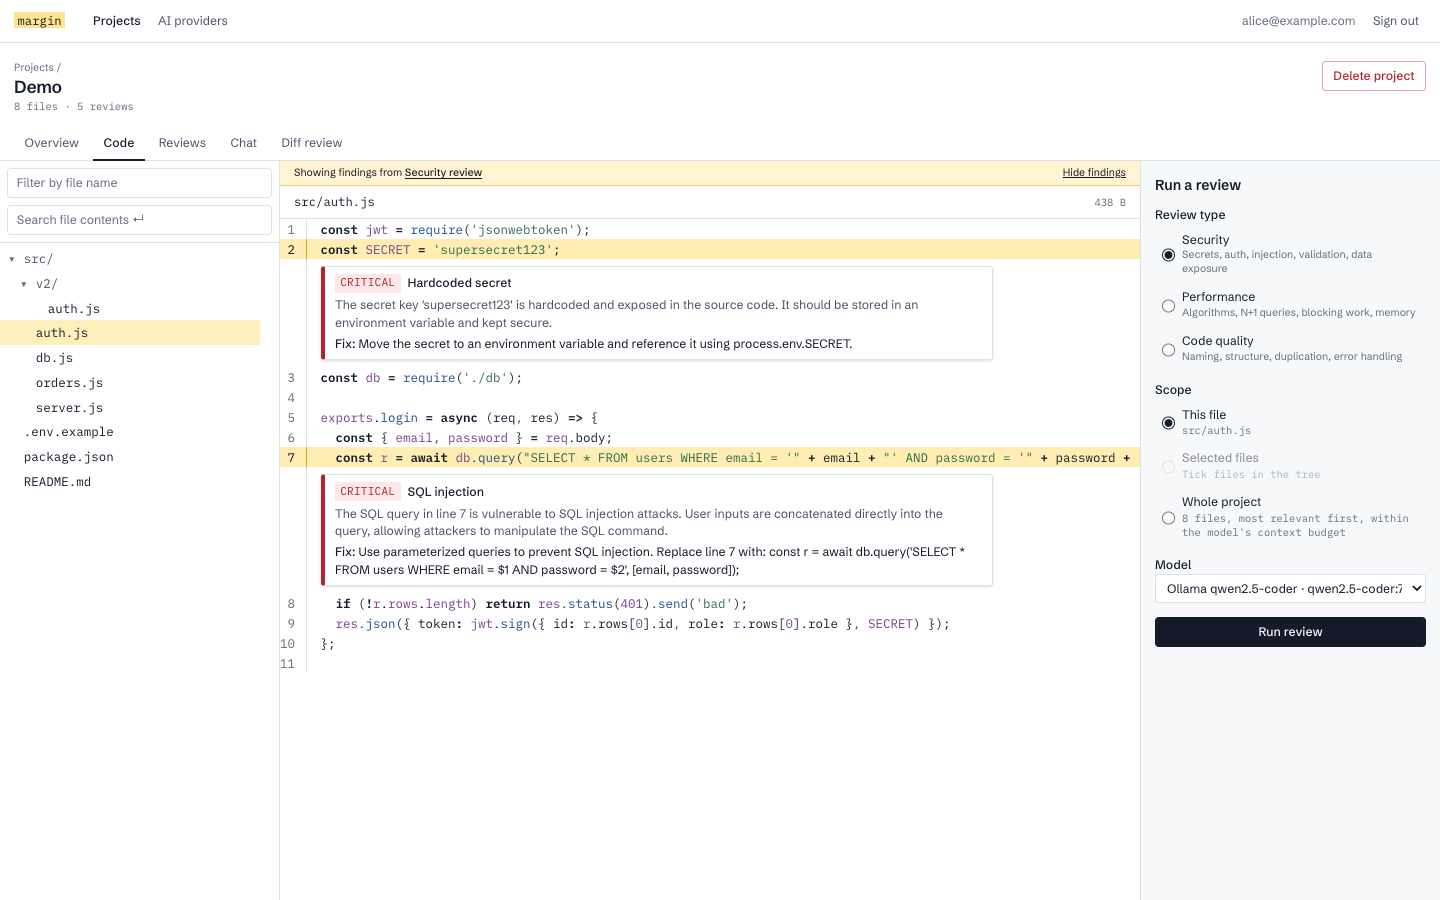
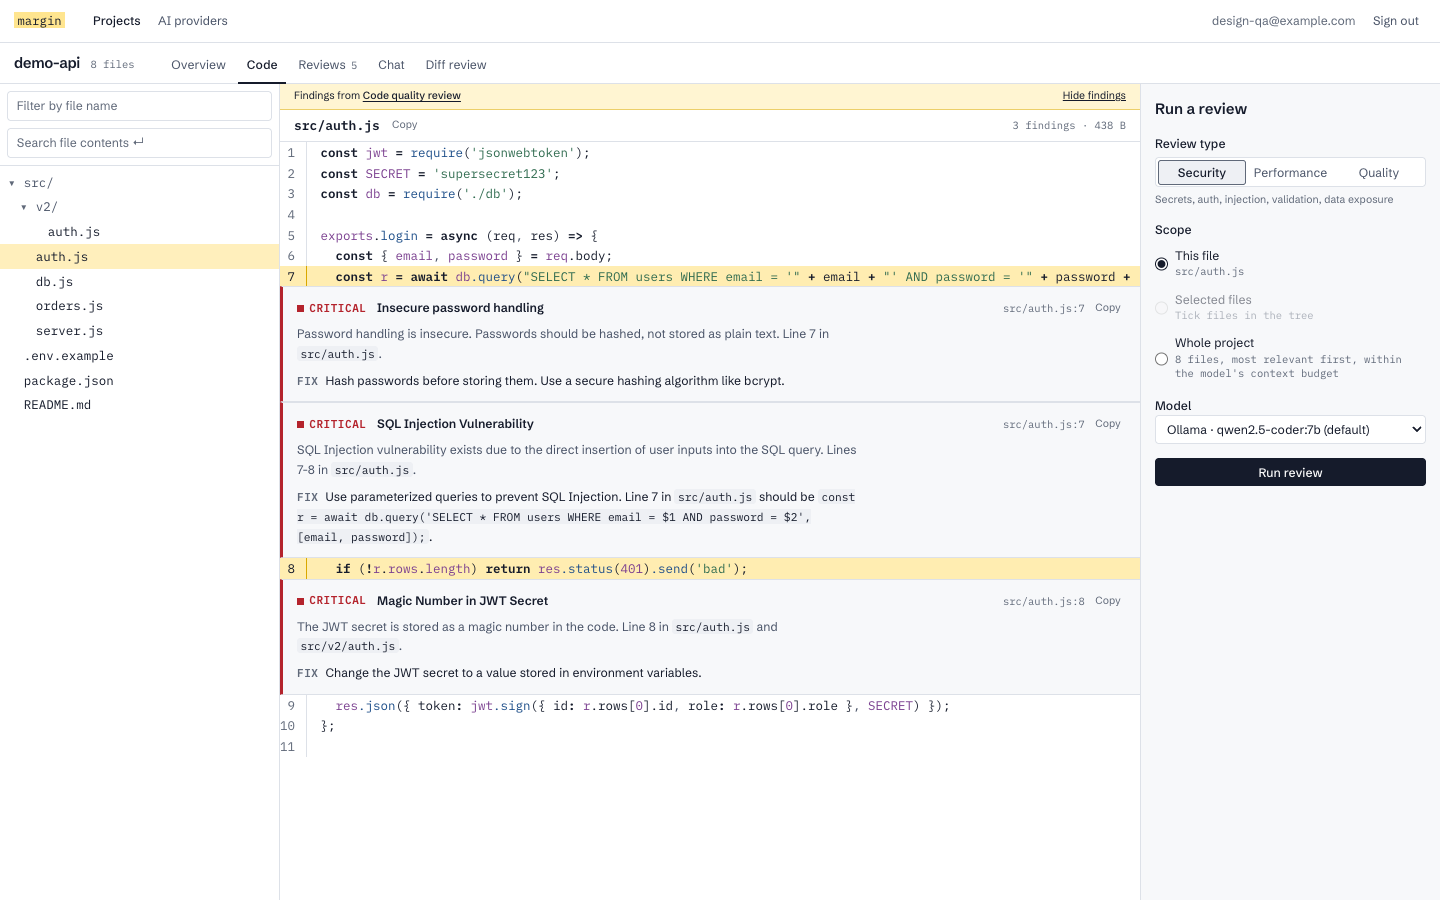
docs: update walkthrough and screenshots for the review UI

diff --git a/DEMO.md b/DEMO.md
@@ -51,9 +51,9 @@ itself.
 ## 6. Security review (single file)
 
 Back to the project → **Code** → open `src/auth.js` → **Security** · **This file** → **Run review**.
-The review page shows the severity counts and findings for the hardcoded secret and the SQL
-injection. Click `src/auth.js:7`: the explorer opens with line 7 highlighted and the finding pinned
-beneath it.
+The review page groups findings by file and shows each one under the code it cites, with the line
+highlighted. Filter by severity, or press `j` / `k` to step through findings. Click `src/auth.js:7`:
+the explorer opens the whole file with line 7 highlighted and the finding pinned beneath it.
 
 ## 7. Performance review (selected files)
 
@@ -63,7 +63,7 @@ checkbox) → **Performance** · **Selected files** → **Run review**. Expect t
 
 ## 8. Code quality review (whole project)
 
-**Code** → **Code quality** · **Whole project** → **Run review**. The **Coverage** section lists every
+**Code** → **Quality** · **Whole project** → **Run review**. The **Coverage** section lists every
 file sent to the model. For large projects it also lists the files left out because they did not fit
 the context budget.
 
@@ -76,14 +76,16 @@ across projects.
 ## 10. Chat with the code
 
 **Chat → New chat** → click *Which file handles database connections?* The answer cites `src/db.js`
-and lists **Based on:** with the files retrieved for this question. Ask a follow-up such as *Is that
+and lists **Based on** with the files retrieved for this question. Ask a follow-up such as *Is that
 connection pooled?*; earlier turns are sent as history.
 
 ## 11. Bonus features
 
-**Diff review:** **Diff review** tab → Version A `src/auth.js`, Version B *Another file* →
+**Diff review:** **Diff review** tab → Original `src/auth.js`, Changed *Another project file* →
 `src/v2/auth.js` → **Review changes**. The model reviews only the changed lines and should flag the
-`algorithm: 'none'` JWT signing as a security problem introduced by the "fix". Alternatively choose
+`algorithm: 'none'` JWT signing as a security problem introduced by the "fix". The review page
+redraws the diff with the finding pinned under the changed line (pasted text is not stored, so an
+**Edited text** review shows the findings without the diff). Alternatively choose
 **Edited text**, click **Start from auth.js** and edit it by hand.
 
 **Architecture analysis:** **Overview** tab → **Analyse architecture**. Expect components

diff --git a/README.md b/README.md
@@ -19,7 +19,7 @@ with OpenAI, LM Studio, Ollama, OpenRouter and other compatible servers.
 | ZIP ingestion | Up to 20 MB. Checked by magic bytes, parsed in memory and never written to disk or executed. Zip Slip and zip bombs are rejected. `node_modules`, `.git`, build output, binaries, symlinks and likely secret files (`.env`, keys, `.npmrc`, ...) are skipped, and the UI reports each skipped file with the reason. |
 | Code explorer | File tree, name filter, full-text content search, syntax highlighting (Shiki, grammars loaded on demand), line numbers. Contents are fetched one file at a time. |
 | Reviews | Security, performance and code-quality modes over **this file**, **selected files** (up to 50) or the **whole project**, with the scope chosen explicitly. Model output is validated with Zod and retried once with the errors fed back. Findings that cite files the model wasn't shown are discarded. |
-| Review UX | Severity counts, issue cards and recommendations. Each `file:line` opens the explorer with the line highlighted and the finding pinned underneath. The Coverage section lists files that didn't fit the context budget. |
+| Review UX | Findings grouped by file and pinned under the code they cite (diff reviews redraw the diff), severity filter, `j`/`k` navigation. Each `file:line` opens the explorer with the line highlighted. The Coverage section lists files that didn't fit the context budget. |
 | History | Paginated, searchable (summary, finding titles, file paths) and filterable by type, per project and across projects. |
 | Chat | Per-project chat sessions. Keyword retrieval runs in Postgres, only the best-matching files are sent under a character budget, and each answer lists the files it was based on. |
 | Diff review (bonus) | Compare a file with another file or with edited text. Only the changed lines, with a little context, are sent to the model. |
